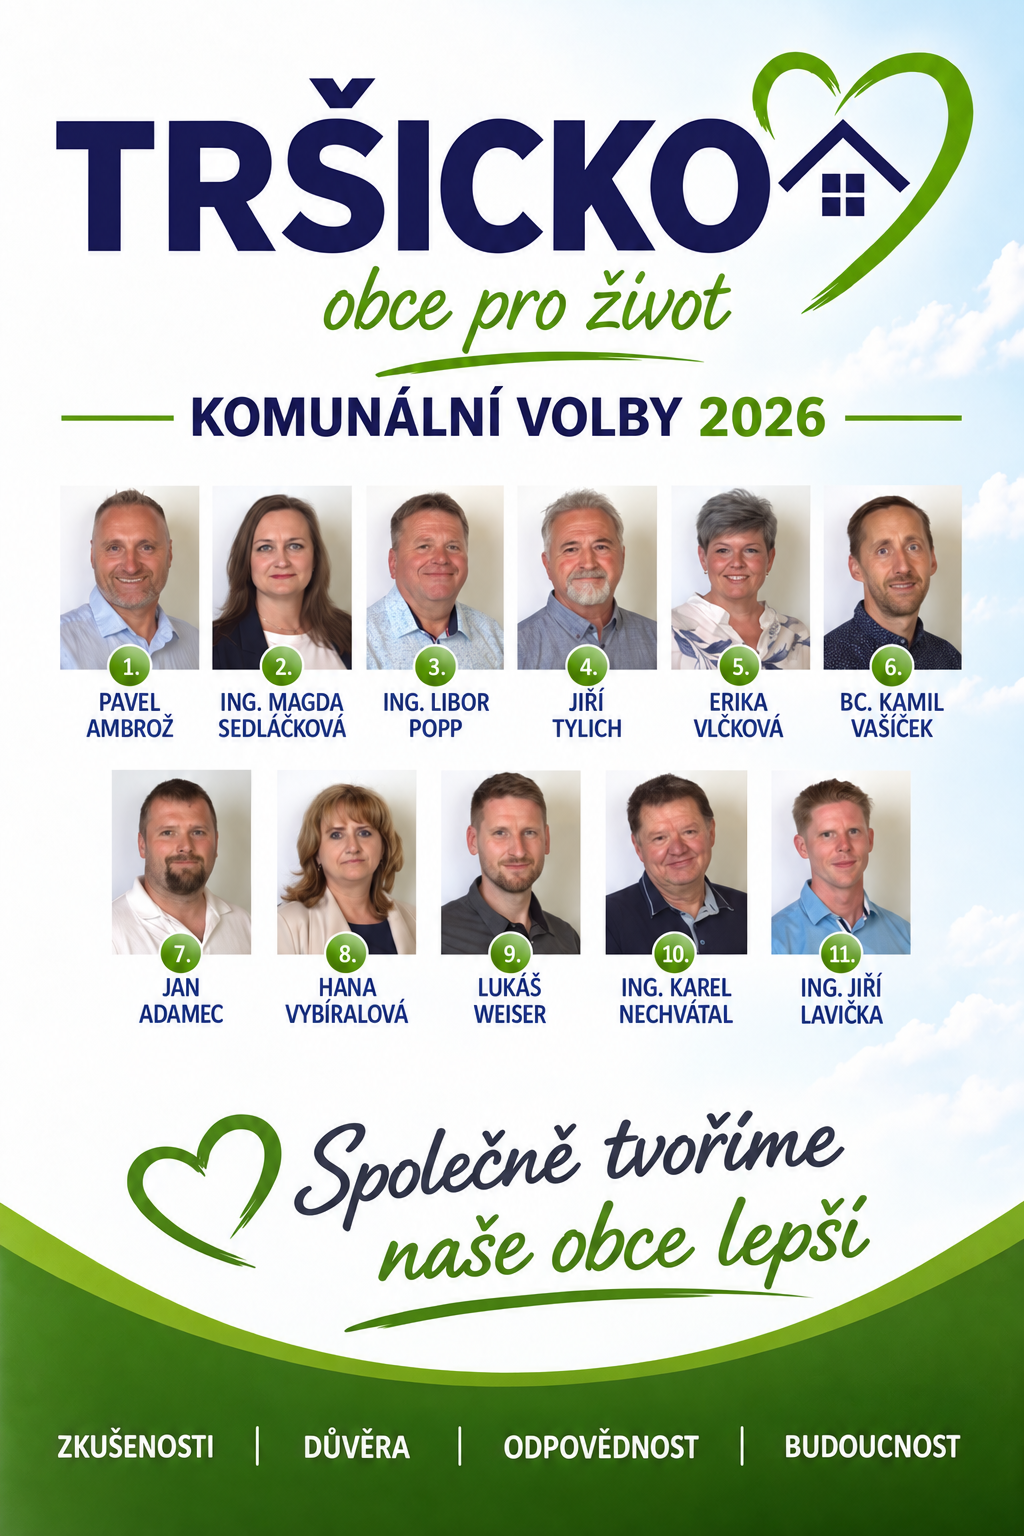
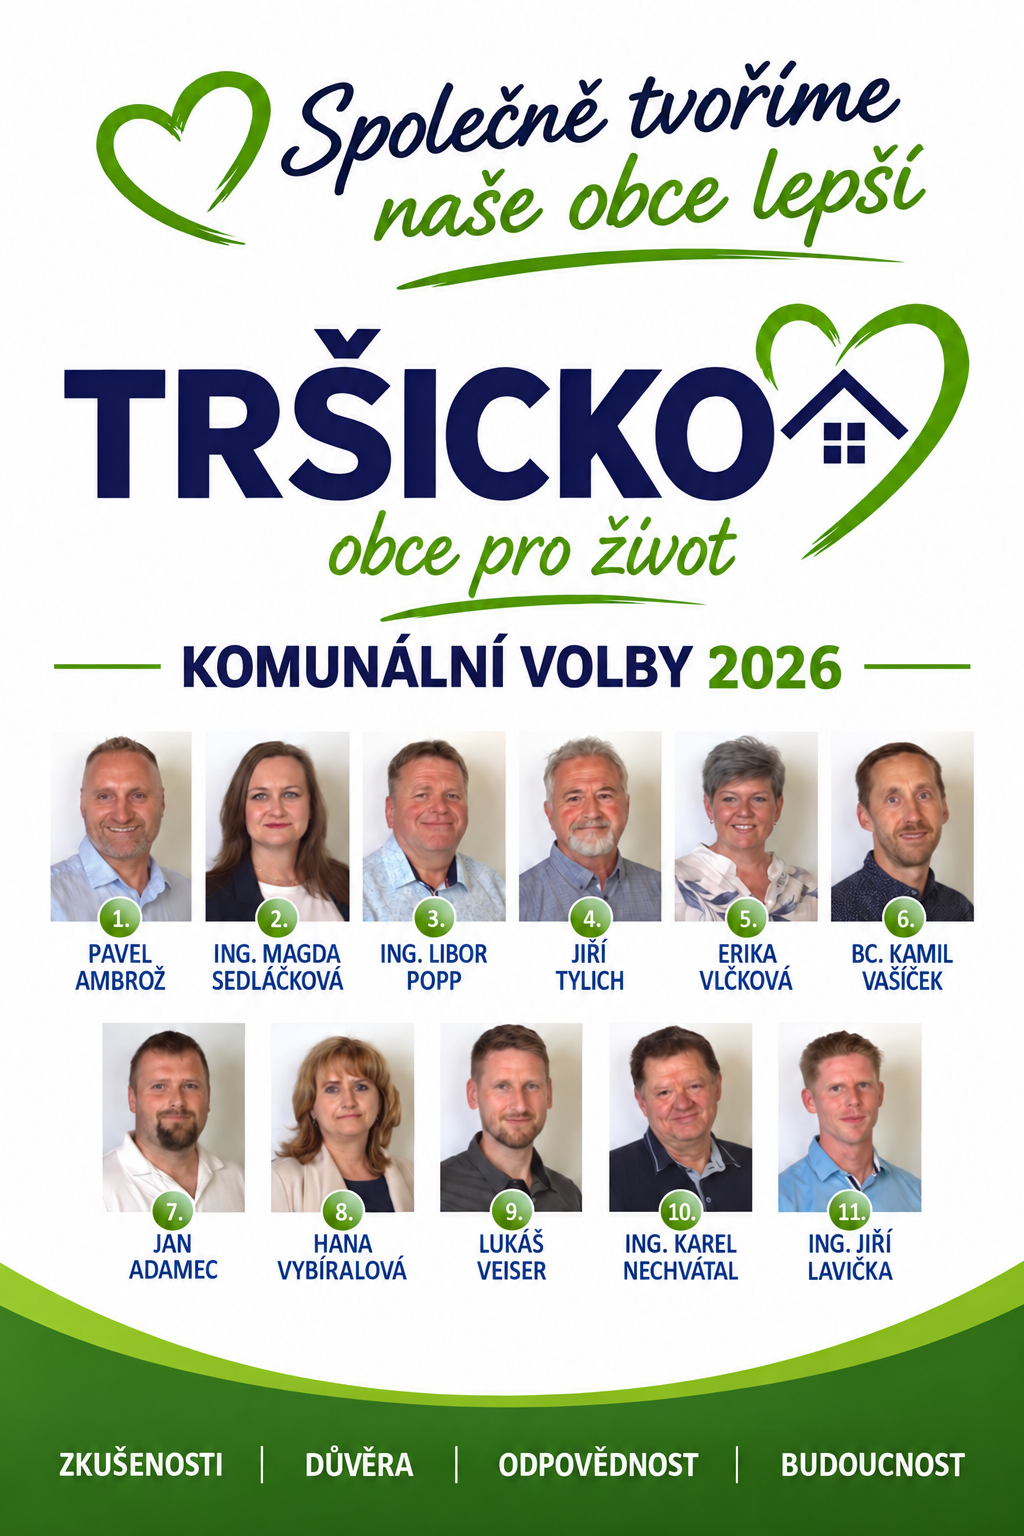
Publish candidate poster with corrected Lukas Veiser name

diff --git a/public/index.html b/public/index.html
@@ -7,4 +7,4 @@
 <section class="section pale" id="program"><div class="wrap"><div class="section-head"><div><p class="eyebrow">Program 2026–2030</p><h2>Volební program</h2></div><p>Program pro obec Tršice a její místní části.</p></div><div class="program-grid"><details class="program-item"><summary><span class="number">01</span>Správa obcí a transparentnost</summary><ul><li>Chceme jasnou, otevřenou a srozumitelnou komunikaci mezi vedením obce a občany.</li><li>Zaměříme se na moderní a efektivní fungování obecního úřadu.</li><li>Podpoříme zapojení obyvatel do rozhodovacího procesu.</li><li>Budeme pravidelně pořádat veřejná setkání s občany i mimo veřejná zastupitelstva.</li></ul></details><details class="program-item"><summary><span class="number">02</span>Rozvoj infrastruktury v jednotlivých obcích</summary><ul><li>Budeme pečovat o obecní majetek a veřejná prostranství.</li><li>Připravíme jasnou koncepci využití obecních budov a pozemků včetně jejich přehledů.</li><li>Vytvoření návrhů míst pro setkávání s občany a cestu k jejich úspěšné realizaci.</li><li>Chceme identifikovat a postupně řešit specifické potřeby jednotlivých místních částí.</li><li>Podpoříme budování nových sítí veřejného osvětlení a datových sítí s postupným ukládáním do země.</li><li>Budeme usilovat o vybudování splaškové kanalizace s jasně stanoveným harmonogramem realizace.</li></ul></details><details class="program-item"><summary><span class="number">03</span>Rozpočtová odpovědnost a plánování</summary><ul><li>Prosazujeme odpovědné, transparentní hospodaření a dlouhodobé investiční plánování.</li><li>Aktivně budeme vyhledávat dotační příležitosti pro nové projekty.</li><li>Investiční priority chceme nastavovat podle skutečných potřeb obyvatel.</li></ul></details><details class="program-item"><summary><span class="number">04</span>Doprava a bezpečnost</summary><ul><li>Budeme pečovat o místní komunikace, přechody a dopravní značení.</li><li>Zaměříme se na bezpečnost chodců, dětí a seniorů.</li><li>Podpoříme rozšiřování parkovacích míst tam, kde je to potřeba.</li><li>Chceme úzce spolupracovat se složkami IZS, BESIP a státní správou.</li></ul></details><details class="program-item"><summary><span class="number">05</span>Školství, rodiny a mládež</summary><ul><li>Podpoříme rozvoj mateřské a základní školy.</li><li>Budeme usilovat o opravu a navýšení kapacit základní školy.</li><li>Zaměříme se na bezpečné trasy do škol.</li><li>Podpoříme volnočasové aktivity a zájmové kroužky.</li><li>Budeme rozvíjet dětská hřiště a prostory pro mladé lidi.</li></ul></details><details class="program-item"><summary><span class="number">06</span>Senioři a sociální oblast</summary><ul><li>Chceme podporovat dostupné služby pro seniory a osoby se sníženou soběstačností.</li><li>Podpoříme mezigenerační spolupráci a společenské aktivity pro všechny generace.</li></ul></details><details class="program-item"><summary><span class="number">07</span>Životní prostředí a obecní zeleň</summary><ul><li>Budeme pečovat o veřejnou zeleň, parky a lesy.</li><li>Zaměříme se na kvalitní a efektivní systém odpadového hospodářství.</li><li>Podpoříme údržbu krajiny, vodních toků a výsadbu nové zeleně tam, kde to bude vhodné a přínosné.</li></ul></details><details class="program-item"><summary><span class="number">08</span>Kultura, tradice a spolky</summary><ul><li>Budeme podporovat kulturní, společenské a obecní akce.</li><li>Chceme aktivně spolupracovat s místními spolky.</li><li>Budeme chránit a rozvíjet místní tradice.</li></ul></details><details class="program-item"><summary><span class="number">09</span>Sport a volnočasové aktivity</summary><ul><li>Zaměříme se na rozvoj a údržbu sportovních areálů.</li><li>Podpoříme amatérské sportovní skupiny a místní sportovní aktivity.</li><li>Budeme pečovat o síť stezek pro pěší a cyklisty.</li><li>Chceme vytvářet kvalitní veřejný prostor pro rodiny, děti i aktivní občany.</li></ul></details><details class="program-item"><summary><span class="number">10</span>Podpora podnikání a místních služeb</summary><ul><li>Chceme výrazně zlepšit spolupráci podnikatelů s obcí.</li><li>Budeme vytvářet podmínky pro rozvoj služeb, řemesel, obchodů a gastronomie.</li></ul></details></div><div class="program-bottom"><a class="button" href="program.html">Podrobný program <span aria-hidden="true">↗</span></a><a class="text-link" href="assets/program.jpg">Program ke stažení v JPG ↓</a></div></div></section>
 <section class="section" id="kandidati"><div class="wrap"><div class="section-head"><div><p class="eyebrow">Kandidátka 2026</p><h2>Kandidáti sdružení</h2></div><p>Volební číslo sdružení: <strong>2</strong>.<br>Jedenáct kandidátů do zastupitelstva obce.</p></div><div class="candidates"><a class="candidate" href="kandidat-01.html"><div class="portrait"><img src="assets/kandidat-01.webp" alt="Pavel Ambrož" width="1100" height="1650" loading="lazy"><span class="candidate-number">01</span></div><h3>Pavel Ambrož</h3><p>Zobrazit profil <span aria-hidden="true">↗</span></p></a><a class="candidate" href="kandidat-02.html"><div class="portrait"><img src="assets/kandidat-02.webp" alt="Ing. Magda Sedláčková" width="1100" height="1650" loading="lazy"><span class="candidate-number">02</span></div><h3>Ing. Magda Sedláčková</h3><p>Zobrazit profil <span aria-hidden="true">↗</span></p></a><a class="candidate" href="kandidat-03.html"><div class="portrait"><img src="assets/kandidat-03.webp" alt="Ing. Libor Popp" width="1100" height="1650" loading="lazy"><span class="candidate-number">03</span></div><h3>Ing. Libor Popp</h3><p>Zobrazit profil <span aria-hidden="true">↗</span></p></a><a class="candidate" href="kandidat-04.html"><div class="portrait"><img src="assets/kandidat-04.webp" alt="Jiří Tylich" width="1100" height="1650" loading="lazy"><span class="candidate-number">04</span></div><h3>Jiří Tylich</h3><p>Zobrazit profil <span aria-hidden="true">↗</span></p></a><a class="candidate" href="kandidat-05.html"><div class="portrait"><img src="assets/kandidat-05.webp" alt="Erika Vlčková" width="1100" height="1650" loading="lazy"><span class="candidate-number">05</span></div><h3>Erika Vlčková</h3><p>Zobrazit profil <span aria-hidden="true">↗</span></p></a><a class="candidate" href="kandidat-06.html"><div class="portrait"><img src="assets/kandidat-06.webp" alt="Bc. Kamil Vašíček" width="1100" height="1650" loading="lazy"><span class="candidate-number">06</span></div><h3>Bc. Kamil Vašíček</h3><p>Zobrazit profil <span aria-hidden="true">↗</span></p></a><a class="candidate" href="kandidat-07.html"><div class="portrait"><img src="assets/kandidat-07.webp" alt="Jan Adamec" width="1100" height="1650" loading="lazy"><span class="candidate-number">07</span></div><h3>Jan Adamec</h3><p>Zobrazit profil <span aria-hidden="true">↗</span></p></a><a class="candidate" href="kandidat-08.html"><div class="portrait"><img src="assets/kandidat-08.webp" alt="Hana Vybíralová" width="1100" height="1650" loading="lazy"><span class="candidate-number">08</span></div><h3>Hana Vybíralová</h3><p>Zobrazit profil <span aria-hidden="true">↗</span></p></a><a class="candidate" href="kandidat-09.html"><div class="portrait"><img src="assets/kandidat-09.webp" alt="Lukáš Veiser" width="1100" height="1650" loading="lazy"><span class="candidate-number">09</span></div><h3>Lukáš Veiser</h3><p>Zobrazit profil <span aria-hidden="true">↗</span></p></a><a class="candidate" href="kandidat-10.html"><div class="portrait"><img src="assets/kandidat-10.webp" alt="Ing. Karel Nechvátal" width="1100" height="1650" loading="lazy"><span class="candidate-number">10</span></div><h3>Ing. Karel Nechvátal</h3><p>Zobrazit profil <span aria-hidden="true">↗</span></p></a><a class="candidate" href="kandidat-11.html"><div class="portrait"><img src="assets/kandidat-11.webp" alt="Ing. Jiří Lavička" width="1100" height="1650" loading="lazy"><span class="candidate-number">11</span></div><h3>Ing. Jiří Lavička</h3><p>Zobrazit profil <span aria-hidden="true">↗</span></p></a></div></div></section>
 <section class="section event-section" id="setkani"><div class="wrap"><div class="event"><div><p class="eyebrow">Setkání s občany</p><h2>Pozvánka na<br>přátelské setkání</h2><p>Setkání sdružení Tršicko – obce pro život se všemi kandidáty, představením programu a vizualizací podoby některých částí obcí.</p><p>Host setkání: <strong>Ing. Jan Koudelka</strong>, projektový ředitel společnosti Reticulum.</p><div class="actions"><a class="button" href="assets/pozvanka.webp">Zobrazit pozvánku <span aria-hidden="true">↗</span></a></div></div><div class="event-info"><time class="event-date" datetime="2026-10-04T15:00:00+02:00">4. října 2026</time><dl><dt>Den</dt><dd>Neděle</dd><dt>Začátek</dt><dd>15:00</dd><dt>Místo</dt><dd>Společenský sál<br>v Tršicích</dd></dl></div></div></div></section>
-<section class="section pale" id="dokumenty"><div class="wrap"><div class="section-head"><div><p class="eyebrow">Ke stažení</p><h2>Dokumenty</h2></div></div><div class="downloads"><a class="download" href="assets/podrobny-program.pdf"><div><strong>Podrobný program rozvoje obcí</strong><small>PDF · 180 kB</small></div><span class="arrow" aria-hidden="true">↓</span></a><a class="download" href="assets/program.jpg"><div><strong>Volební program</strong><small>JPG · 1,3 MB</small></div><span class="arrow" aria-hidden="true">↓</span></a><a class="download" href="assets/kandidati.png"><div><strong>Kandidátka</strong><small>PNG · 2,3 MB</small></div><span class="arrow" aria-hidden="true">↓</span></a><a class="download" href="assets/pozvanka.webp"><div><strong>Pozvánka na setkání</strong><small>Obrázek · 4. října 2026</small></div><span class="arrow" aria-hidden="true">↗</span></a></div></div></section></main><footer><div class="wrap footer-inner"><a class="brand" href="index.html"><strong>TRŠICKO</strong><span>obce pro život</span></a><p>Tršicko – obce pro život · Komunální volby 2026</p><a href="index.html#dokumenty">Dokumenty ke stažení ↑</a></div></footer></body></html>
+<section class="section pale" id="dokumenty"><div class="wrap"><div class="section-head"><div><p class="eyebrow">Ke stažení</p><h2>Dokumenty</h2></div></div><div class="downloads"><a class="download" href="assets/podrobny-program.pdf"><div><strong>Podrobný program rozvoje obcí</strong><small>PDF · 180 kB</small></div><span class="arrow" aria-hidden="true">↓</span></a><a class="download" href="assets/program.jpg"><div><strong>Volební program</strong><small>JPG · 1,3 MB</small></div><span class="arrow" aria-hidden="true">↓</span></a><a class="download" href="assets/kandidati.png"><div><strong>Kandidátka</strong><small>PNG · 2,0 MB</small></div><span class="arrow" aria-hidden="true">↓</span></a><a class="download" href="assets/pozvanka.webp"><div><strong>Pozvánka na setkání</strong><small>Obrázek · 4. října 2026</small></div><span class="arrow" aria-hidden="true">↗</span></a></div></div></section></main><footer><div class="wrap footer-inner"><a class="brand" href="index.html"><strong>TRŠICKO</strong><span>obce pro život</span></a><p>Tršicko – obce pro život · Komunální volby 2026</p><a href="index.html#dokumenty">Dokumenty ke stažení ↑</a></div></footer></body></html>

diff --git a/scripts/prepare_content.py b/scripts/prepare_content.py
@@ -104,7 +104,7 @@ body = '''<main id="obsah">
 <section class="section pale" id="program"><div class="wrap"><div class="section-head"><div><p class="eyebrow">Program 2026–2030</p><h2>Volební program</h2></div><p>Program pro obec Tršice a její místní části.</p></div><div class="program-grid">''' + program_html + '''</div><div class="program-bottom"><a class="button" href="program.html">Podrobný program <span aria-hidden="true">↗</span></a><a class="text-link" href="assets/program.jpg">Program ke stažení v JPG ↓</a></div></div></section>
 <section class="section" id="kandidati"><div class="wrap"><div class="section-head"><div><p class="eyebrow">Kandidátka 2026</p><h2>Kandidáti sdružení</h2></div><p>Volební číslo sdružení: <strong>2</strong>.<br>Jedenáct kandidátů do zastupitelstva obce.</p></div><div class="candidates">''' + ''.join(cards) + '''</div></div></section>
 <section class="section event-section" id="setkani"><div class="wrap"><div class="event"><div><p class="eyebrow">Setkání s občany</p><h2>Pozvánka na<br>přátelské setkání</h2><p>Setkání sdružení Tršicko – obce pro život se všemi kandidáty, představením programu a vizualizací podoby některých částí obcí.</p><p>Host setkání: <strong>Ing. Jan Koudelka</strong>, projektový ředitel společnosti Reticulum.</p><div class="actions"><a class="button" href="assets/pozvanka.webp">Zobrazit pozvánku <span aria-hidden="true">↗</span></a></div></div><div class="event-info"><time class="event-date" datetime="2026-10-04T15:00:00+02:00">4. října 2026</time><dl><dt>Den</dt><dd>Neděle</dd><dt>Začátek</dt><dd>15:00</dd><dt>Místo</dt><dd>Společenský sál<br>v Tršicích</dd></dl></div></div></div></section>
-<section class="section pale" id="dokumenty"><div class="wrap"><div class="section-head"><div><p class="eyebrow">Ke stažení</p><h2>Dokumenty</h2></div></div><div class="downloads"><a class="download" href="assets/podrobny-program.pdf"><div><strong>Podrobný program rozvoje obcí</strong><small>PDF · 180 kB</small></div><span class="arrow" aria-hidden="true">↓</span></a><a class="download" href="assets/program.jpg"><div><strong>Volební program</strong><small>JPG · 1,3 MB</small></div><span class="arrow" aria-hidden="true">↓</span></a><a class="download" href="assets/kandidati.png"><div><strong>Kandidátka</strong><small>PNG · 2,3 MB</small></div><span class="arrow" aria-hidden="true">↓</span></a><a class="download" href="assets/pozvanka.webp"><div><strong>Pozvánka na setkání</strong><small>Obrázek · 4. října 2026</small></div><span class="arrow" aria-hidden="true">↗</span></a></div></div></section></main>'''
+<section class="section pale" id="dokumenty"><div class="wrap"><div class="section-head"><div><p class="eyebrow">Ke stažení</p><h2>Dokumenty</h2></div></div><div class="downloads"><a class="download" href="assets/podrobny-program.pdf"><div><strong>Podrobný program rozvoje obcí</strong><small>PDF · 180 kB</small></div><span class="arrow" aria-hidden="true">↓</span></a><a class="download" href="assets/program.jpg"><div><strong>Volební program</strong><small>JPG · 1,3 MB</small></div><span class="arrow" aria-hidden="true">↓</span></a><a class="download" href="assets/kandidati.png"><div><strong>Kandidátka</strong><small>PNG · 2,0 MB</small></div><span class="arrow" aria-hidden="true">↓</span></a><a class="download" href="assets/pozvanka.webp"><div><strong>Pozvánka na setkání</strong><small>Obrázek · 4. října 2026</small></div><span class="arrow" aria-hidden="true">↗</span></a></div></div></section></main>'''
 (PUBLIC / 'index.html').write_text(page('Tršicko – obce pro život | Volby 2026', 'Sdružení Tršicko – obce pro život. Kandidátka, program 2026–2030 a setkání s občany v Tršicích.', body), encoding='utf-8')
 
 reader = PdfReader(SOURCE / 'Podrobný program rozvoje obcí_2026_2030.pdf')
